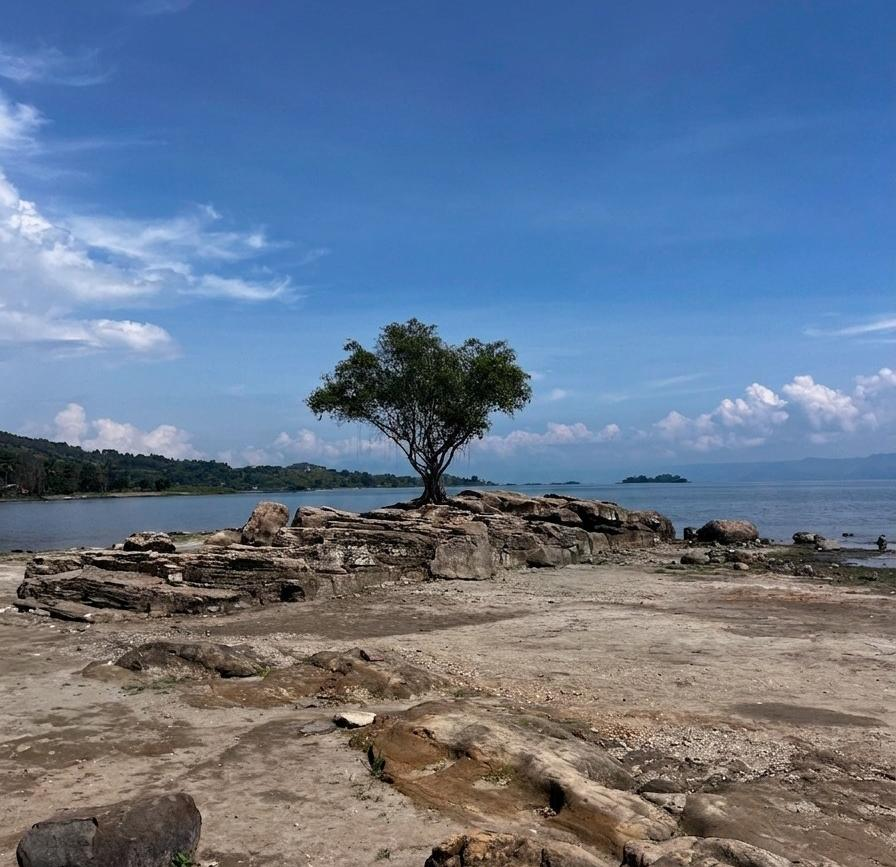
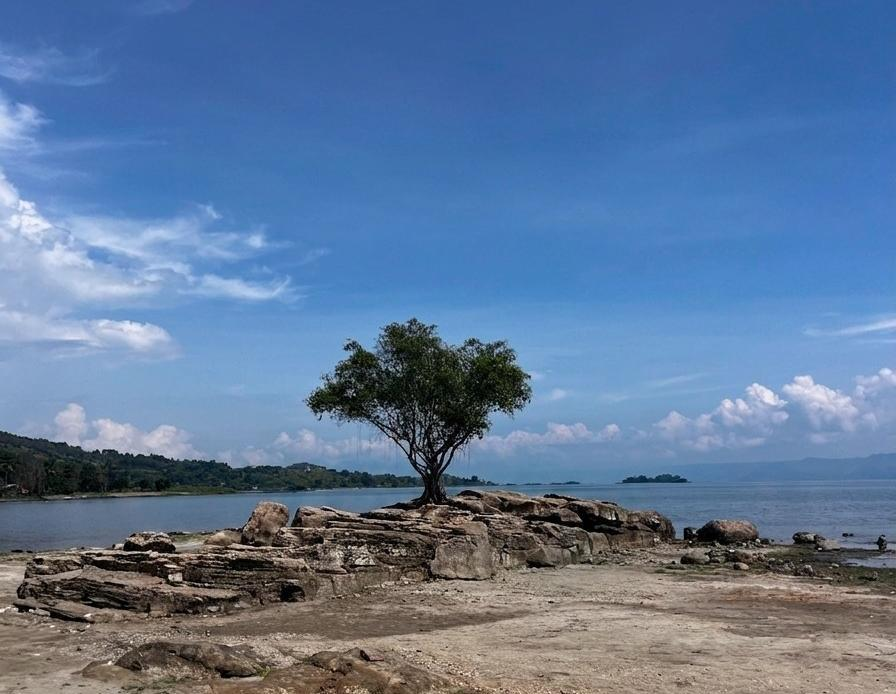
tambah gambar dan peta

diff --git a/resources/views/pages/home.blade.php b/resources/views/pages/home.blade.php
@@ -150,11 +150,11 @@
         animation: shimmer 3s infinite;
     }
     
-    .slide-1 { background-image: linear-gradient(rgba(0, 51, 102, 0.5), rgba(0, 102, 153, 0.3)), url('/image/tuktuk/slide1.jpg'); }
-    .slide-2 { background-image: linear-gradient(rgba(0, 51, 102, 0.5), rgba(0, 102, 153, 0.3)), url('/image/tuktuk/slide2.jpg'); }
-    .slide-3 { background-image: linear-gradient(rgba(0, 51, 102, 0.5), rgba(0, 102, 153, 0.3)), url('/image/tuktuk/slide3.jpg'); }
-    .slide-4 { background-image: linear-gradient(rgba(0, 51, 102, 0.5), rgba(0, 102, 153, 0.3)), url('/image/tuktuk/slide4.jpg'); }
-    .slide-5 { background-image: linear-gradient(rgba(0, 51, 102, 0.5), rgba(0, 102, 153, 0.3)), url('/image/tuktuk/slide5.jpg'); }
+    .slide-1 { background-image: linear-gradient(rgba(0, 51, 102, 0.5), rgba(0, 102, 153, 0.3)), url('/image/batuhoda/batuhoda2.jpeg'); }
+    .slide-2 { background-image: linear-gradient(rgba(0, 51, 102, 0.5), rgba(0, 102, 153, 0.3)), url('/image/batu passa/passa1.jpeg'); }
+    .slide-3 { background-image: linear-gradient(rgba(0, 51, 102, 0.5), rgba(0, 102, 153, 0.3)), url('/image/hutabolon/bolon2.jpg'); }
+    .slide-4 { background-image: linear-gradient(rgba(0, 51, 102, 0.5), rgba(0, 102, 153, 0.3)), url('/image/rumahkaca/kaca2.jpg'); }
+    .slide-5 { background-image: linear-gradient(rgba(0, 51, 102, 0.5), rgba(0, 102, 153, 0.3)), url('/image/hutabolon/bolon3.jpg'); }
     
     .hero-content {
         position: absolute;
@@ -626,14 +626,14 @@
     
     .destinasi-image:hover { 
         transform: scale(1.05) translateY(-10px);
-        box-shadow: 0 20px 40px rgba(0, 51, 102, 0.25);
+        box-shadow: (0, 51, 102, 0.25);
         animation: pulse 0.5s ease;
     }
     
     .destinasi-image img { 
         width: 100%; 
         height: auto; 
-        display: block; 
+        display: block; 0 20px 40px rgba
         transition: transform 0.5s ease;
     }
     
@@ -1132,7 +1132,7 @@
                 <p>Kawasan ini menyimpan nilai geologi luar biasa, keanekaragaman hayati, dan warisan budaya Batak yang autentik. </p>
             </div>
             <div class="about-image" data-aos="fade-left" data-aos-duration="1000">
-                <img src="/image/Ambarita/Ambarita3.jpg" alt="Danau Toba">
+                <img src="/image/danau toba/danau toba.jpeg" alt="Danau Toba">
             </div>
         </div>
     </div>
@@ -1155,7 +1155,7 @@
                 </div>
                 <div class="destinasi-content">
                     <div class="destinasi-number">01 — GEOSITE</div>
-                    <h3>Batu hoda</h3>
+                    <h3>Batu Hoda</h3>
                     <div class="destinasi-location">Desa Cinta Dame, Kecamatan Simanindo, Kabupaten Samosir, Sumatera Utara</div>
                     <p class="destinasi-desc">Tuktuk adalah kawasan wisata terkenal di Pulau Samosir yang berada di tepi Danau Toba. Tempat ini banyak dikunjungi wisatawan 
                         karena memiliki pemandangan danau yang indah, penginapan, restoran, serta suasana yang tenang dan nyaman untuk berlibur</p>
@@ -1170,7 +1170,7 @@
                 </div>
                 <div class="destinasi-content">
                     <div class="destinasi-number">02 — GEOSITE</div>
-                    <h3>Batu passa</h3>
+                    <h3>Batu Passa</h3>
                     <div class="destinasi-location">Desa Sangkal, Kecamatan Simanindo, Kabupaten Samosir.</div>
                     <p class="destinasi-desc">Batu Passa merupakan destinasi wisata alam yang terletak di kawasan Simanindo, Kabupaten Samosir. Tempat ini terkenal dengan keunikan formasi batu alamnya,
                         panorama indah yang menghadap ke Danau Toba, serta suasana alam yang masih asri dan menenangkan.</p>
@@ -1203,7 +1203,7 @@
         <div class="section-title" data-aos="fade-up" data-aos-duration="800">
             <h2>Lokasi 3 Geosite</h2>
             <div class="divider"></div>
-            <p>Tuktuk · Ambarita · Tomok</p>
+            <p>Batu Hoda · Batu Passa · Huta Bolon</p>
         </div>
         
         <div class="maps-container" data-aos="zoom-in" data-aos-duration="1000">
@@ -1221,28 +1221,26 @@
             <div class="maps-info">
                 <div class="maps-locations">
     
-                    <!-- TUKTUK -->
-                    <div class="maps-location-item" 
-                         onclick="window.open('https://www.google.com/maps/search/?api=1&query=Tuktuk+Siadong+Samosir', '_blank')">
-                        <i class="fas fa-location-dot"></i>
-                        <span>Tuktuk</span>
-                    </div>
+                    <!-- BATU HODA -->
+<div class="maps-location-item" 
+     onclick="window.open('https://www.google.com/maps/search/?api=1&query=Batu+Hoda+Samosir', '_blank')">
+    <i class="fas fa-location-dot"></i>
+    <span>Batu Hoda</span>
+</div>
 
-                    <!-- AMBARITA -->
-                    <div class="maps-location-item" 
-                         onclick="window.open('https://www.google.com/maps/search/?api=1&query=Ambarita+Samosir', '_blank')">
-                        <i class="fas fa-location-dot"></i>
-                        <span>Ambarita</span>
-                    </div>
+<!-- BATU PASSA -->
+<div class="maps-location-item" 
+     onclick="window.open('https://www.google.com/maps/search/?api=1&query=Batu+Passa+Samosir', '_blank')">
+    <i class="fas fa-location-dot"></i>
+    <span>Batu Passa</span>
+</div>
 
-                    <!-- TOMOK -->
-                    <div class="maps-location-item" 
-                         onclick="window.open('https://www.google.com/maps/search/?api=1&query=Tomok+Samosir', '_blank')">
-                        <i class="fas fa-location-dot"></i>
-                        <span>Tomok</span>
-                    </div>
-
-                </div>
+<!-- HUTA BOLON -->
+<div class="maps-location-item" 
+     onclick="window.open('https://www.google.com/maps/search/?api=1&query=Huta+Bolon+Samosir', '_blank')">
+    <i class="fas fa-location-dot"></i>
+    <span>Huta Bolon</span>
+</div>
 
                 <div class="maps-note">
                     <i class="fas fa-map-marker-alt"></i>